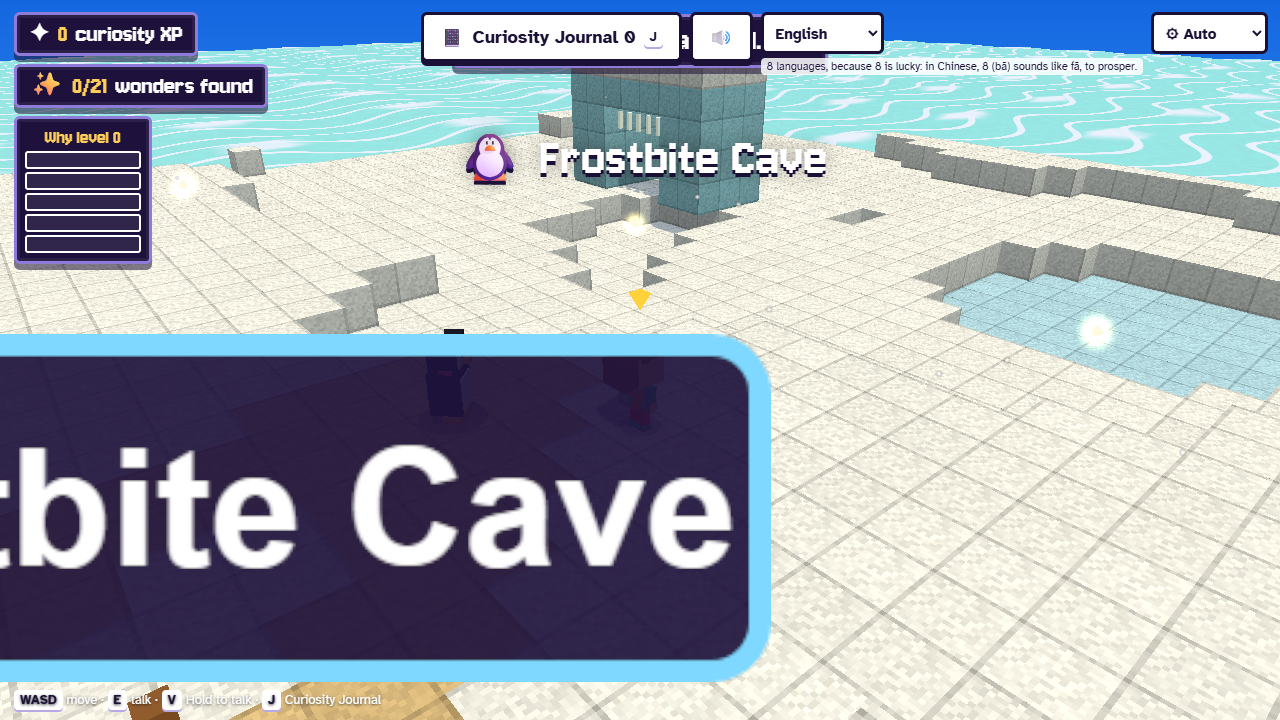
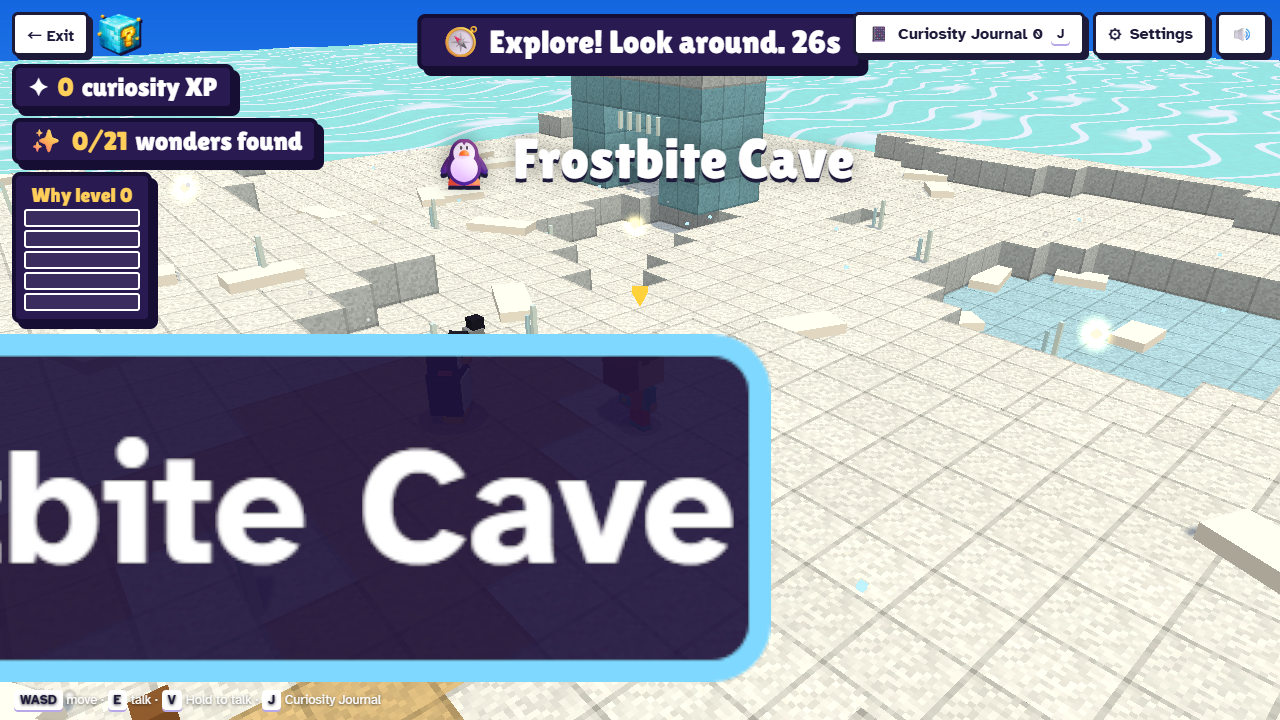
Curiosity Craft: detail pass (shells, starfish, towels, tide rocks; lava crust, pumice, vent glow, hot spring; snow drifts, icicles, frost, penguin chicks; ferns, mushrooms, flowers, vines, butterflies, parrot)

diff --git a/web/src/game/cc/voxel.ts b/web/src/game/cc/voxel.ts
@@ -406,6 +406,7 @@ export class Voxel {
   npcs: Record<string, Actor> = {};
   private particlesFx: { pts: THREE.Points; vel: number[]; kind: 'smoke' | 'snow' | 'fly' }[] = [];
   currentBiome: Biome = 'beach';
+  private hotSpring: { x: number; y: number; z: number } | null = null;
   onBiome: (b: Biome) => void = () => undefined;
 
   private carvePath(x0: number, z0: number, x1: number, z1: number) {
@@ -467,6 +468,32 @@ export class Voxel {
     this.deco.push({ x: 26.5, y: 2.1, z: 85.6, sx: 3.2, sy: 0.2, sz: 1.6, c: '#ffffff' });
     this.deco.push({ x: 44.5, y: this.groundY(44.5, 84.5) + 1.4, z: 84.5, sx: 2.6, sy: 0.12, sz: 1.4, c: '#2fae4a', ry: 0.5 }, { x: 44.5, y: this.groundY(44.5, 84.5) + 0.7, z: 84.5, sx: 0.12, sy: 1.4, sz: 0.12, c: '#1f7a32' });
     { const fy = this.groundY(30.5, 72.5); for (let k = 0; k < 6; k++) { const a = (k / 6) * Math.PI * 2; this.deco.push({ x: 30.5 + Math.cos(a) * 0.55, y: fy + 1.3, z: 72.5 + Math.sin(a) * 0.55, sx: 0.6, sy: 0.12, sz: 0.6, c: '#ff5d8f', ry: a }); } this.deco.push({ x: 30.5, y: fy + 1.36, z: 72.5, sx: 0.45, sy: 0.18, sz: 0.45, c: '#ffd23c' }, { x: 30.5, y: fy + 0.65, z: 72.5, sx: 0.12, sy: 1.3, sz: 0.12, c: '#2fae4a' }); }
+    // ---- additive detail pass (all instanced deco / cheap groups)
+    { const R = (i: number, k: number) => hash2(i, k, 77);
+      const gy = (x: number, z: number) => this.groundY(x, z);
+      const free = (x: number, z: number) => { const h = this.top(x, z); return h > 1 && h < 50; };
+      // beach: shells, starfish, tide-pool rocks, towels
+      for (let i = 0; i < 40; i++) { const z = 3 + R(i, 1) * 50, x = shoreAt(z) + R(i, 2) * 7; if (!free(x, z) || biomeAt(x, z) !== 'beach') continue; const star = i % 3 === 0;
+        this.deco.push({ x, y: gy(x, z) + 0.03, z, sx: star ? 0.42 : 0.24, sy: 0.05, sz: star ? 0.12 : 0.2, c: star ? '#ff7a5a' : ['#ffe0d0', '#ffd0e8', '#fff4c8'][i % 3], ry: R(i, 3) * 6 });
+        if (star) this.deco.push({ x, y: gy(x, z) + 0.03, z, sx: 0.12, sy: 0.05, sz: 0.42, c: '#ff7a5a', ry: R(i, 3) * 6 }); }
+      for (let i = 0; i < 14; i++) { const x = 10 + R(i, 4) * 8, z = 50 + R(i, 5) * 8; if (!free(x, z)) continue; this.deco.push({ x, y: gy(x, z) + 0.2, z, sx: 0.5 + R(i, 6) * 0.4, sy: 0.4, sz: 0.5, c: i % 2 ? '#8f95a2' : '#a9adb8', ry: R(i, 7) }); if (i % 3 === 0) this.deco.push({ x: x + 0.3, y: gy(x, z) + 0.42, z, sx: 0.18, sy: 0.08, sz: 0.18, c: '#2fae4a' }); }
+      for (const [x, z, c1, c2] of [[23.5, 37.5, '#ff5d8f', '#ffffff'], [32.5, 31.5, '#2ec4b6', '#ffd23c'], [25.5, 15.5, '#c86bfa', '#ffffff']] as const) { if (!free(x, z)) continue; for (let k = 0; k < 4; k++) this.deco.push({ x, y: gy(x, z) + 0.04, z: z - 0.75 + k * 0.5, sx: 0.9, sy: 0.05, sz: 0.48, c: k % 2 ? c2 : c1 }); }
+      // volcano: cooled lava rivers (dark crust with glowing seams), pumice, vent glow, hot spring
+      for (const ang of [0.6, 1.4]) for (let r = 5; r < 18; r += 0.6) { const x = 76.5 + Math.cos(ang) * r, z = 28.5 + Math.sin(ang) * r; if (!free(x, z)) continue; this.deco.push({ x, y: gy(x, z) + 0.05, z, sx: 0.8, sy: 0.1, sz: 0.8, c: '#2a2030' }); if (Math.floor(r * 3) % 4 === 0) this.deco.push({ x: x + 0.15, y: gy(x, z) + 0.11, z, sx: 0.5, sy: 0.04, sz: 0.08, c: '#ff8a3c', glow: true, ry: ang }); }
+      for (let i = 0; i < 30; i++) { const a = R(i, 8) * 6.28, r = 6 + R(i, 9) * 14; const x = 76.5 + Math.cos(a) * r, z = 28.5 + Math.sin(a) * r; if (!free(x, z) || biomeAt(x, z) !== 'volcano') continue; this.deco.push({ x, y: gy(x, z) + 0.12, z, sx: 0.28, sy: 0.22, sz: 0.25, c: '#d8c8b8', ry: a }); }
+      { const hx = 86.5, hz = 33.5; if (free(hx, hz)) { const y = gy(hx, hz); for (let k = 0; k < 10; k++) { const a = (k / 10) * 6.28; this.deco.push({ x: hx + Math.cos(a) * 1.3, y: y + 0.15, z: hz + Math.sin(a) * 1.3, sx: 0.4, sy: 0.3, sz: 0.4, c: '#8f95a2' }); } this.deco.push({ x: hx, y: y + 0.06, z: hz, sx: 2.2, sy: 0.08, sz: 2.2, c: '#7fe0e8' }); this.hotSpring = { x: hx, y: y + 0.2, z: hz }; } }
+      // ice: icicles along ridges, snow drifts, frost sparkles, penguin chicks
+      for (let i = 0; i < 30; i++) { const x = 60 + R(i, 10) * 34, z = 60 + R(i, 11) * 34; if (!free(x, z) || biomeAt(x, z) !== 'ice') continue; this.deco.push({ x, y: gy(x, z) + 0.12, z, sx: 1.2 + R(i, 12), sy: 0.24, sz: 0.8, c: '#ffffff', ry: R(i, 13) * 3 }); }
+      for (let i = 0; i < 18; i++) { const x = 62 + R(i, 14) * 30, z = 62 + R(i, 15) * 30; if (!free(x, z) || biomeAt(x, z) !== 'ice') continue; const y = gy(x, z); this.deco.push({ x, y: y + 0.5, z, sx: 0.1, sy: 0.9, sz: 0.1, c: '#dff6ff' }, { x: x + 0.25, y: y + 0.35, z, sx: 0.08, sy: 0.6, sz: 0.08, c: '#bfeaff' }); }
+      for (let i = 0; i < 16; i++) { const x = 62 + R(i, 16) * 30, z = 62 + R(i, 17) * 30; if (!free(x, z) || biomeAt(x, z) !== 'ice') continue; this.deco.push({ x, y: gy(x, z) + 0.3, z, sx: 0.08, sy: 0.08, sz: 0.08, c: '#bff4ff', glow: true }); }
+      for (let i = 0; i < 3; i++) { const x = 72.5 + i * 0.8, z = 70 + (i % 2) * 0.6; if (!free(x, z)) continue; const y = gy(x, z); this.deco.push({ x, y: y + 0.22, z, sx: 0.3, sy: 0.4, sz: 0.28, c: '#8a8f9a' }, { x, y: y + 0.5, z: z + 0.05, sx: 0.24, sy: 0.22, sz: 0.24, c: '#1b1b2a' }, { x, y: y + 0.48, z: z + 0.18, sx: 0.08, sy: 0.05, sz: 0.06, c: '#ff9a2a' }); }
+      // jungle: vines, mushrooms, ferns, flowers
+      for (let i = 0; i < 60; i++) { const x = 4 + R(i, 18) * 52, z = 62 + R(i, 19) * 32; if (!free(x, z) || biomeAt(x, z) !== 'jungle' || x < shoreAt(z) + 8) continue; const y = gy(x, z); const k = i % 4;
+        if (k === 0) { for (let f = 0; f < 4; f++) this.deco.push({ x: x + Math.cos(f * 1.6) * 0.18, y: y + 0.2, z: z + Math.sin(f * 1.6) * 0.18, sx: 0.08, sy: 0.4, sz: 0.26, c: f % 2 ? '#2fae4a' : '#4fd26a', ry: f * 1.6 }); }
+        else if (k === 1) { this.deco.push({ x, y: y + 0.12, z, sx: 0.08, sy: 0.24, sz: 0.08, c: '#fff4e0' }, { x, y: y + 0.26, z, sx: 0.3, sy: 0.12, sz: 0.3, c: i % 8 === 1 ? '#ff5d6c' : '#c86bfa' }); }
+        else if (k === 2) { for (let f = 0; f < 3; f++) this.deco.push({ x: x + f * 0.25 - 0.25, y: y + 0.16, z: z + (f % 2) * 0.2, sx: 0.16, sy: 0.12, sz: 0.16, c: ['#ff5d8f', '#ffd23c', '#ff8a3c'][f] }); }
+        else { for (let v = 0; v < 5; v++) this.deco.push({ x, y: y + 4.8 - v * 0.55, z, sx: 0.07, sy: 0.55, sz: 0.07, c: '#2a8a3a' }); } }
+    }
     // particles: volcano smoke, snowfall, butterflies
     const mk = (n2: number, color: string, size: number, kind: 'smoke' | 'snow' | 'fly', cx: number, cy: number, cz: number, r: number) => {
       const g = new THREE.BufferGeometry(); const pos = new Float32Array(n2 * 3); const vel: number[] = [];
@@ -477,7 +504,14 @@ export class Voxel {
     };
     mk(40, '#9a8f98', 1.6, 'smoke', 76.5, 13, 28.5, 4);
     mk(60, '#ffffff', 0.25, 'snow', 76, 6, 76, 34);
-    mk(14, '#ff8fd0', 0.35, 'fly', 36, 5, 78, 22);
+    mk(26, '#ff8fd0', 0.35, 'fly', 36, 5, 78, 22);
+    mk(12, '#ffd23c', 0.3, 'fly', 30, 5, 84, 16);
+    mk(14, '#ffb03a', 0.45, 'smoke', 84.5, 4, 38.5, 1.2);
+    if (this.hotSpring) mk(16, '#f4f7ff', 1.0, 'smoke', this.hotSpring.x, this.hotSpring.y, this.hotSpring.z, 1.6);
+    // a parrot circling in the jungle
+    { const g = new THREE.Group(); const b = (w: number, h: number, d: number, c: string, x = 0, y = 0, z = 0) => { const m = new THREE.Mesh(new THREE.BoxGeometry(w, h, d), new THREE.MeshLambertMaterial({ color: c })); m.position.set(x, y, z); g.add(m); return m; };
+      b(0.3, 0.3, 0.6, '#ff3d3d'); b(0.25, 0.25, 0.25, '#ff3d3d', 0, 0.15, 0.35); b(0.1, 0.1, 0.12, '#ffd23c', 0, 0.12, 0.52); const w1 = b(0.6, 0.06, 0.3, '#2f8aff', -0.4, 0.05, 0); const w2 = b(0.6, 0.06, 0.3, '#2f8aff', 0.4, 0.05, 0); b(0.12, 0.06, 0.5, '#ffd23c', 0, -0.05, -0.5);
+      this.scene.add(g); this.anim.push({ obj: g, fn: (t, o) => { const a = t * 0.5; o.position.set(36 + Math.cos(a) * 7, 10 + Math.sin(t * 1.3) * 0.6, 78 + Math.sin(a) * 7); o.rotation.y = -a; w1.rotation.z = Math.sin(t * 10) * 0.6; w2.rotation.z = -Math.sin(t * 10) * 0.6; } }); }
     // NPCs
     this.npcs.rocky = this.actorAt(this.golem(), NPC_SPOTS.rocky.x, NPC_SPOTS.rocky.z);
     this.npcs.penny = this.actorAt(this.penguin(), NPC_SPOTS.penny.x, NPC_SPOTS.penny.z);
